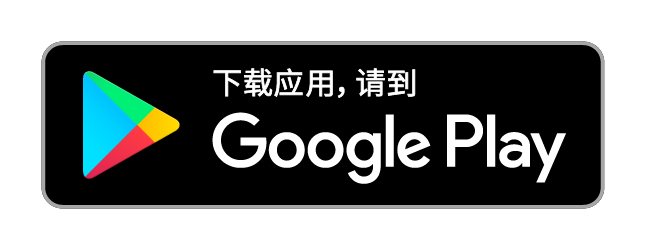
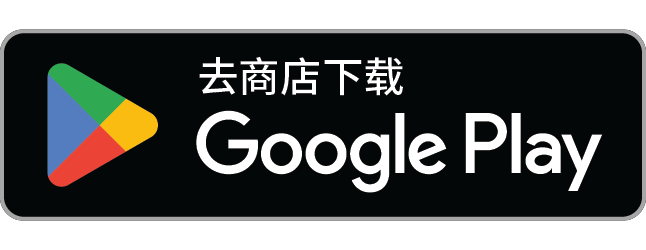
Update google play badge

diff --git a/README.md b/README.md
@@ -26,16 +26,16 @@ App for Tsinghua University Web Learning, developed with React Native. ⚛
 ### iOS / iPadOS / macOS
 
 <a href="https://apps.apple.com/cn/app/learnx/id1459073115#?platform=iphone" target="_blank" rel="noopener noreferrer">
-    <img align="center" height=50 alt="App Store 下载" src="docs/assets/Download_on_the_App_Store_Badge_CNSC_RGB_blk_092917.svg" />
+    <img align="center" height=40 alt="App Store 下载" src="docs/assets/Download_on_the_App_Store_Badge_CNSC_RGB_blk_092917.svg" />
 </a>
 <a href="https://apps.apple.com/cn/app/learnx/id1459073115#?platform=mac" target="_blank" rel="noopener noreferrer">
-    <img align="center" height=50 alt="Mac App Store 下载" src="docs/assets/Download_on_the_Mac_App_Store_Badge_CNSC_RGB_blk_092917.svg" />
+    <img align="center" height=40 alt="Mac App Store 下载" src="docs/assets/Download_on_the_Mac_App_Store_Badge_CNSC_RGB_blk_092917.svg" />
 </a>
 
 ### Android
 
-<a href="https://play.google.com/store/apps/details?id=io.robertying.learnx" target="_blank" rel="noopener noreferrer">
-      <img style="margin: -12px -12px 0px -12px;" align="center" height=72 alt="下载应用，请到 Google Play" src="docs/assets/google-play-badge.png" />
+- <a href="https://play.google.com/store/apps/details?id=io.robertying.learnx" target="_blank" rel="noopener noreferrer">
+      <img align="center" height=52 alt="下载应用，请到 Google Play" src="docs/assets/google-play-badge.png" />
   </a>
 
 - **[TUNA 镜像（推荐） TUNA Mirror (Recommended)](https://mirrors.tuna.tsinghua.edu.cn/github-release/robertying/learnX/LatestRelease/)**
